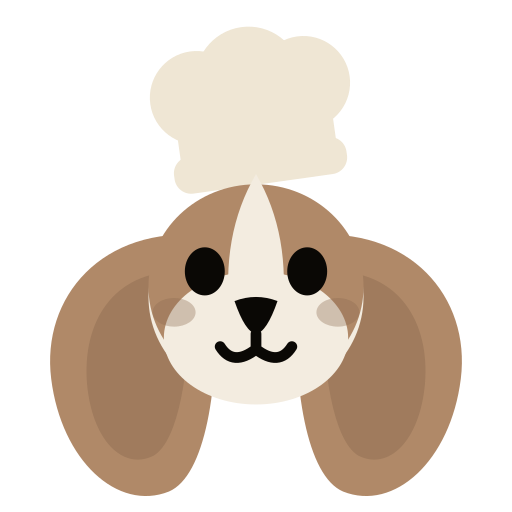
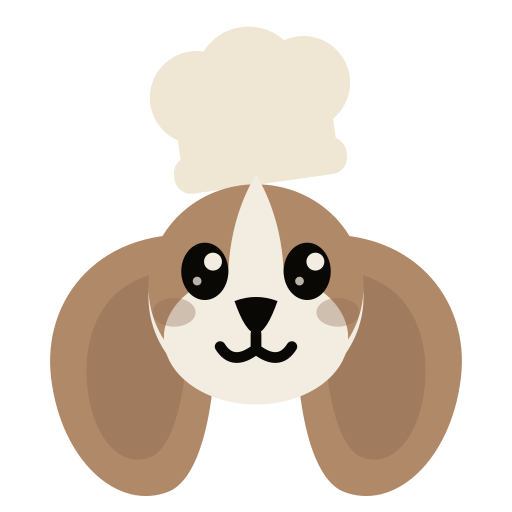
feat(ai): おたまの目に表情を入れ、ホームからの導線を足す
- 目が黒い楕円だけで表情が無かった。ハイライトを 2 点入れ、目を大きくした
  （小さいと 40px でただの点になる）
- ホームの入口が「お店の料理を撮る」1 本だった。**撮るのは料理が目の前にある
  とき、おたまはまだ料理が無いとき**なので、対になる入口を並べた。
  主役を薄めないよう、こちらは輪郭だけの控えめな見た目にしている

Changed region(s): [[0.3438, 0.4688, 0.4688, 0.5938], [0.5312, 0.4688, 0.6562, 0.5938]]

diff --git a/apps/mobile/app/(tabs)/index.tsx b/apps/mobile/app/(tabs)/index.tsx
@@ -26,6 +26,7 @@ import {
   View,
 } from 'react-native';
 
+import mascot from '../../assets/mascot/otama.png';
 import { Avatar } from '../../src/components/Avatar';
 import { CoachMarkOverlay } from '../../src/components/CoachMarkOverlay';
 import { HelpButton } from '../../src/components/HelpButton';
@@ -380,6 +381,20 @@ export default function HomeScreen() {
                   <Text style={styles.captureText}>{t('home.capture')}</Text>
                 </PressableScale>
 
+                {/* もう 1 本の入口。撮るのは「料理が目の前にある」とき、
+                    おたまは「まだ料理が無い」とき。主役を薄めないよう、
+                    こちらは輪郭だけの控えめな見た目にする */}
+                <PressableScale
+                  style={styles.consultButton}
+                  scaleTo={0.98}
+                  onPress={() => router.push('/(tabs)/recipes/consult')}
+                  accessibilityRole="button"
+                  accessibilityLabel={t('home.consult')}
+                >
+                  <Image source={mascot} style={styles.consultMascot} resizeMode="contain" />
+                  <Text style={styles.consultText}>{t('home.consult')}</Text>
+                </PressableScale>
+
                 {wantList.length > 0 && (
                   <View style={styles.wantSection}>
                     <View style={styles.wantHeader}>
@@ -590,6 +605,25 @@ const styles = StyleSheet.create({
     paddingVertical: 15,
     marginTop: 14,
     marginBottom: 4,
+  },
+  consultButton: {
+    flexDirection: 'row',
+    alignItems: 'center',
+    justifyContent: 'center',
+    gap: 8,
+    borderWidth: 1,
+    borderColor: Colors.border,
+    borderRadius: 10,
+    paddingVertical: 11,
+    marginTop: 8,
+    marginBottom: 4,
+  },
+  consultMascot: { width: 26, height: 26 },
+  consultText: {
+    fontSize: 14,
+    fontWeight: '600',
+    color: Colors.paperDim,
+    letterSpacing: 0.5,
   },
   captureText: {
     fontSize: 15,

diff --git a/apps/mobile/src/i18n/locales/ja/home.ts b/apps/mobile/src/i18n/locales/ja/home.ts
@@ -58,6 +58,8 @@ const home = {
   },
 
   /** 主役への直行ボタン（`docs/お店の味を再現設計.md` §4.3 問題2）。 */
+  // まだ料理が無いときの入口。撮る（料理がある）と対になる
+  consult: 'おたまに相談する',
   capture: 'お店の料理を撮る',
 
   /** 作りたいリストの棚。データは pinned_at のまま、呼び名だけ再現ループに寄せた。 */

diff --git a/apps/mobile/src/i18n/locales/en/home.ts b/apps/mobile/src/i18n/locales/en/home.ts
@@ -53,6 +53,7 @@ const home: typeof ja = {
     body: 'Photograph a dish you ate out, and it becomes a recipe you can cook at home.',
   },
 
+  consult: 'Ask Otama',
   capture: 'Photograph a dish you ate out',
 
   wantTitle: 'Want to recreate',
